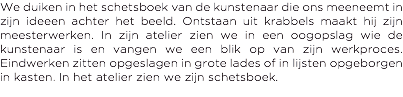
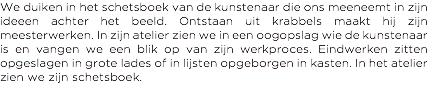
best for now

diff --git a/phone/index.html b/phone/index.html
@@ -18,33 +18,31 @@ if(typeof Muse == "undefined") window.Muse = {}; window.Muse.assets = {"required
   <title>Het schetsboek</title>
   <!-- CSS -->
   <link rel="stylesheet" type="text/css" href="../css/site_global.css?crc=443350757"/>
-  <link rel="stylesheet" type="text/css" href="css/index.css?crc=131115964" id="pagesheet"/>
+  <link rel="stylesheet" type="text/css" href="css/index.css?crc=4152663298" id="pagesheet"/>
   <!-- IE-only CSS -->
   <!--[if lt IE 9]>
-  <link rel="stylesheet" type="text/css" href="css/nomq_index.css?crc=516133162" id="nomq_pagesheet"/>
+  <link rel="stylesheet" type="text/css" href="css/nomq_index.css?crc=402654324" id="nomq_pagesheet"/>
   <![endif]-->
    </head>
  <body>
 
-  <div class="breakpoint active" id="bp_infinity" data-min-width="431"><!-- responsive breakpoint node -->
+  <div class="breakpoint active" id="bp_infinity" data-min-width="456"><!-- responsive breakpoint node -->
    <div class="clearfix" id="page"><!-- column -->
     <div class="position_content" id="page_position_content">
      <div class="clearfix colelem" id="pu4742"><!-- group -->
       <div class="clip_frame grpelem" id="u4742"><!-- image -->
-       <img class="block temp_no_img_src" id="u4742_img" data-orig-src="../images/schetsboek%20website428x234.png?crc=4009220246" alt="" width="428" height="233" src="../images/blank.gif?crc=4208392903"/>
+       <img class="block temp_no_img_src" id="u4742_img" data-orig-src="../images/schetsboek%20website453x247.png?crc=4059943281" alt="" width="452" height="247" src="../images/blank.gif?crc=4208392903"/>
       </div>
-      <img class="grpelem temp_no_img_src" id="u4749-4" alt="We duiken in het schetsboek van de kunstenaar die ons meeneemt in zijn ideeen achter het beeld. Ontstaan uit krabbels maakt hij zijn meesterwerken. In zijn atelier zien we in een oogopslag wie de kunstenaar is en vangen we een blik op van zijn werkproces. Eindwerken zitten opgeslagen in grote lades of in lijsten opgeborgen in kasten. In het atelier zien we zijn schetsboek." width="427" height="97" data-orig-src="../images/u4749-4.png?crc=4018633053" src="../images/blank.gif?crc=4208392903"/><!-- rasterized frame -->
+      <img class="grpelem temp_no_img_src" id="u4749-4" alt="We duiken in het schetsboek van de kunstenaar die ons meeneemt in zijn ideeen achter het beeld. Ontstaan uit krabbels maakt hij zijn meesterwerken. In zijn atelier zien we in een oogopslag wie de kunstenaar is en vangen we een blik op van zijn werkproces. Eindwerken zitten opgeslagen in grote lades of in lijsten opgeborgen in kasten. In het atelier zien we zijn schetsboek." width="452" height="97" data-orig-src="../images/u4749-4.png?crc=3976532881" src="../images/blank.gif?crc=4208392903"/><!-- rasterized frame -->
      </div>
-     <div class="clearfix colelem" id="pu4750"><!-- group -->
-      <a class="nonblock nontext clip_frame grpelem" id="u4750" href="geerten-ten-bosch.html"><!-- image --><img class="block temp_no_img_src" id="u4750_img" data-orig-src="../images/portret-crop-u4750.jpg?crc=271538203" alt="" width="188" height="192" src="../images/blank.gif?crc=4208392903"/></a>
+     <div class="clearfix colelem" id="pu4744"><!-- group -->
       <div class="grpelem shared_content" id="u4744" data-content-guid="u4744_content"><!-- simple frame --></div>
-     </div>
-     <div class="clearfix colelem shared_content" id="pu4745" data-content-guid="pu4745_content"><!-- group -->
       <div class="grpelem shared_content" id="u4745" data-content-guid="u4745_content"><!-- simple frame --></div>
       <a class="nonblock nontext clearfix grpelem shared_content" id="u4746-4" href="../geerten-ten-bosch.html?devicelock=desktop" data-content-guid="u4746-4_content"><!-- content --><p>Geerten Ten Bosch</p></a>
       <div class="clearfix grpelem shared_content" id="u4748-4" data-content-guid="u4748-4_content"><!-- content -->
        <p>Jesse Strikwerda</p>
       </div>
+      <a class="nonblock nontext clip_frame grpelem" id="u4750" href="geerten-ten-bosch.html"><!-- image --><img class="block temp_no_img_src" id="u4750_img" data-orig-src="../images/portret-crop-u4750.jpg?crc=243338511" alt="" width="199" height="203" src="../images/blank.gif?crc=4208392903"/></a>
      </div>
      <div class="clearfix colelem shared_content" id="u4747-4" data-content-guid="u4747-4_content"><!-- content -->
       <p>Harriët van Reek</p>
@@ -52,39 +50,41 @@ if(typeof Muse == "undefined") window.Muse = {}; window.Muse.assets = {"required
     </div>
    </div>
   </div>
-  <div class="breakpoint" id="bp_430" data-min-width="406" data-max-width="430"><!-- responsive breakpoint node -->
+  <div class="breakpoint" id="bp_455" data-min-width="431" data-max-width="455"><!-- responsive breakpoint node -->
    <div class="clearfix temp_no_id" data-orig-id="page"><!-- column -->
     <div class="position_content temp_no_id" data-orig-id="page_position_content">
      <div class="clearfix colelem temp_no_id" data-orig-id="pu4742"><!-- group -->
       <div class="clip_frame grpelem temp_no_id" data-orig-id="u4742"><!-- image -->
-       <img class="block temp_no_id temp_no_img_src" data-orig-src="../images/schetsboek%20website403x220.png?crc=4293956016" alt="" width="403" height="220" data-orig-id="u4742_img" src="../images/blank.gif?crc=4208392903"/>
+       <img class="block temp_no_id temp_no_img_src" data-orig-src="../images/schetsboek%20website428x234.png?crc=4009220246" alt="" width="428" height="233" data-orig-id="u4742_img" src="../images/blank.gif?crc=4208392903"/>
       </div>
-      <img class="grpelem temp_no_id temp_no_img_src" alt="We duiken in het schetsboek van de kunstenaar die ons meeneemt in zijn ideeen achter het beeld. Ontstaan uit krabbels maakt hij zijn meesterwerken. In zijn atelier zien we in een oogopslag wie de kunstenaar is en vangen we een blik op van zijn werkproces. Eindwerken zitten opgeslagen in grote lades of in lijsten opgeborgen in kasten. In het atelier zien we zijn schetsboek." width="403" height="97" data-orig-src="../images/u4749-42.png?crc=4185130708" data-orig-id="u4749-4" src="../images/blank.gif?crc=4208392903"/><!-- rasterized frame -->
+      <img class="grpelem temp_no_id temp_no_img_src" alt="We duiken in het schetsboek van de kunstenaar die ons meeneemt in zijn ideeen achter het beeld. Ontstaan uit krabbels maakt hij zijn meesterwerken. In zijn atelier zien we in een oogopslag wie de kunstenaar is en vangen we een blik op van zijn werkproces. Eindwerken zitten opgeslagen in grote lades of in lijsten opgeborgen in kasten. In het atelier zien we zijn schetsboek." width="428" height="97" data-orig-src="../images/u4749-42.png?crc=4018633053" data-orig-id="u4749-4" src="../images/blank.gif?crc=4208392903"/><!-- rasterized frame -->
      </div>
-     <div class="clearfix colelem temp_no_id" data-orig-id="pu4750"><!-- group -->
-      <a class="nonblock nontext clip_frame grpelem temp_no_id" href="geerten-ten-bosch.html" data-orig-id="u4750"><!-- image --><img class="block temp_no_id temp_no_img_src" data-orig-src="../images/portret-crop-u47502.jpg?crc=5701676" alt="" width="177" height="181" data-orig-id="u4750_img" src="../images/blank.gif?crc=4208392903"/></a>
+     <div class="clearfix colelem temp_no_id" data-orig-id="pu4744"><!-- group -->
       <span class="grpelem placeholder" data-placeholder-for="u4744_content"><!-- placeholder node --></span>
+      <span class="grpelem placeholder" data-placeholder-for="u4745_content"><!-- placeholder node --></span>
+      <span class="nonblock nontext clearfix grpelem placeholder" data-placeholder-for="u4746-4_content"><!-- placeholder node --></span>
+      <span class="clearfix grpelem placeholder" data-placeholder-for="u4748-4_content"><!-- placeholder node --></span>
+      <a class="nonblock nontext clip_frame grpelem temp_no_id" href="geerten-ten-bosch.html" data-orig-id="u4750"><!-- image --><img class="block temp_no_id temp_no_img_src" data-orig-src="../images/portret-crop-u47502.jpg?crc=271538203" alt="" width="188" height="192" data-orig-id="u4750_img" src="../images/blank.gif?crc=4208392903"/></a>
      </div>
-     <span class="clearfix colelem placeholder" data-placeholder-for="pu4745_content"><!-- placeholder node --></span>
      <span class="clearfix colelem placeholder" data-placeholder-for="u4747-4_content"><!-- placeholder node --></span>
     </div>
    </div>
   </div>
-  <div class="breakpoint" id="bp_405" data-min-width="381" data-max-width="405"><!-- responsive breakpoint node -->
+  <div class="breakpoint" id="bp_430" data-min-width="381" data-max-width="430"><!-- responsive breakpoint node -->
    <div class="clearfix temp_no_id" data-orig-id="page"><!-- column -->
     <div class="position_content temp_no_id" data-orig-id="page_position_content">
      <div class="clearfix colelem temp_no_id" data-orig-id="pu4742"><!-- group -->
       <div class="clip_frame grpelem temp_no_id shared_content" data-orig-id="u4742" data-content-guid="u4742_content"><!-- image -->
        <img class="block temp_no_id temp_no_img_src" data-orig-src="../images/schetsboek%20website378x206.png?crc=518019334" alt="" width="378" height="206" data-orig-id="u4742_img" src="../images/blank.gif?crc=4208392903"/>
       </div>
-      <img class="grpelem temp_no_id temp_no_img_src" alt="We duiken in het schetsboek van de kunstenaar die ons meeneemt in zijn ideeen achter het beeld. Ontstaan uit krabbels maakt hij zijn meesterwerken. In zijn atelier zien we in een oogopslag wie de kunstenaar is en vangen we een blik op van zijn werkproces. Eindwerken zitten opgeslagen in grote lades of in lijsten opgeborgen in kasten. In het atelier zien we zijn schetsboek." width="378" height="97" data-orig-src="../images/u4749-43.png?crc=477453956" data-orig-id="u4749-4" src="../images/blank.gif?crc=4208392903"/><!-- rasterized frame -->
+      <img class="grpelem temp_no_id temp_no_img_src" alt="We duiken in het schetsboek van de kunstenaar die ons meeneemt in zijn ideeen achter het beeld. Ontstaan uit krabbels maakt hij zijn meesterwerken. In zijn atelier zien we in een oogopslag wie de kunstenaar is en vangen we een blik op van zijn werkproces. Eindwerken zitten opgeslagen in grote lades of in lijsten opgeborgen in kasten. In het atelier zien we zijn schetsboek." width="380" height="97" data-orig-src="../images/u4749-43.png?crc=4076492941" data-orig-id="u4749-4" src="../images/blank.gif?crc=4208392903"/><!-- rasterized frame -->
      </div>
-     <div class="clearfix colelem" id="pu4744"><!-- group -->
+     <div class="clearfix colelem temp_no_id" data-orig-id="pu4744"><!-- group -->
       <span class="grpelem placeholder" data-placeholder-for="u4744_content"><!-- placeholder node --></span>
       <span class="nonblock nontext clearfix grpelem placeholder" data-placeholder-for="u4746-4_content"><!-- placeholder node --></span>
-      <a class="nonblock nontext clip_frame grpelem temp_no_id" href="geerten-ten-bosch.html" data-orig-id="u4750"><!-- image --><img class="block temp_no_id temp_no_img_src" data-orig-src="../images/portret-crop-u47503.jpg?crc=4150690599" alt="" width="126" height="129" data-orig-id="u4750_img" src="../images/blank.gif?crc=4208392903"/></a>
+      <a class="nonblock nontext clip_frame grpelem temp_no_id" href="geerten-ten-bosch.html" data-orig-id="u4750"><!-- image --><img class="block temp_no_id temp_no_img_src" data-orig-src="../images/portret-crop-u47503.jpg?crc=3889474983" alt="" width="167" height="170" data-orig-id="u4750_img" src="../images/blank.gif?crc=4208392903"/></a>
      </div>
-     <div class="clearfix colelem temp_no_id" data-orig-id="pu4745"><!-- group -->
+     <div class="clearfix colelem" id="pu4745"><!-- group -->
       <span class="grpelem placeholder" data-placeholder-for="u4745_content"><!-- placeholder node --></span>
       <span class="clearfix grpelem placeholder" data-placeholder-for="u4748-4_content"><!-- placeholder node --></span>
      </div>
@@ -101,12 +101,10 @@ if(typeof Muse == "undefined") window.Muse = {}; window.Muse.assets = {"required
      </div>
      <div class="clearfix colelem temp_no_id" data-orig-id="pu4744"><!-- group -->
       <span class="grpelem placeholder" data-placeholder-for="u4744_content"><!-- placeholder node --></span>
-      <span class="nonblock nontext clearfix grpelem placeholder" data-placeholder-for="u4746-4_content"><!-- placeholder node --></span>
-      <a class="nonblock nontext clip_frame grpelem temp_no_id" href="geerten-ten-bosch.html" data-orig-id="u4750"><!-- image --><img class="block temp_no_id temp_no_img_src" data-orig-src="../images/portret-crop-u47504.jpg?crc=4150690599" alt="" width="126" height="129" data-orig-id="u4750_img" src="../images/blank.gif?crc=4208392903"/></a>
-     </div>
-     <div class="clearfix colelem temp_no_id" data-orig-id="pu4745"><!-- group -->
       <span class="grpelem placeholder" data-placeholder-for="u4745_content"><!-- placeholder node --></span>
+      <span class="nonblock nontext clearfix grpelem placeholder" data-placeholder-for="u4746-4_content"><!-- placeholder node --></span>
       <span class="clearfix grpelem placeholder" data-placeholder-for="u4748-4_content"><!-- placeholder node --></span>
+      <a class="nonblock nontext clip_frame grpelem temp_no_id" href="geerten-ten-bosch.html" data-orig-id="u4750"><!-- image --><img class="block temp_no_id temp_no_img_src" data-orig-src="../images/portret-crop-u47504.jpg?crc=4150690599" alt="" width="126" height="129" data-orig-id="u4750_img" src="../images/blank.gif?crc=4208392903"/></a>
      </div>
      <span class="clearfix colelem placeholder" data-placeholder-for="u4747-4_content"><!-- placeholder node --></span>
     </div>

diff --git a/phone/css/index.css b/phone/css/index.css
@@ -1,1 +1,1 @@
-.version.index{color:#000007;background-color:#D0ABBC;}#page{border-color:#000000;min-height:570px;background-color:transparent;background-image:none;border-width:0px;z-index:1;}#page_position_content{margin-bottom:-388px;width:0.01px;padding-top:32px;}#pu4742{z-index:2;width:0.01px;}#u4742{background-color:transparent;z-index:2;position:relative;margin-right:-10000px;}#u4749-4{margin-right:-10000px;position:relative;vertical-align:top;display:block;z-index:18;margin-top:188px;}#u4744{background-color:#2B2229;margin-right:-10000px;position:relative;z-index:4;}#u4746-4{line-height:14px;background-color:transparent;min-height:30px;position:relative;text-align:center;font-size:12px;z-index:6;margin-right:-10000px;}#u4750{background-color:transparent;margin-right:-10000px;position:relative;z-index:22;}#pu4745{width:0.01px;z-index:5;}#u4745{background-color:#2B2229;margin-right:-10000px;position:relative;z-index:5;}#u4748-4{line-height:14px;background-color:transparent;min-height:30px;position:relative;text-align:center;font-size:12px;z-index:14;margin-right:-10000px;}#u4747-4{background-color:transparent;min-height:30px;position:relative;text-align:center;z-index:10;}.html{background-color:#FFFFFF;}body{position:relative;}@media (min-width: 431px), print{#muse_css_mq{background-color:#FFFFFF;}#bp_infinity.active{display:block;}#page{width:430px;margin-left:auto;margin-right:auto;}#u4742{width:428px;}#pu4750{z-index:22;width:0.01px;margin-left:7px;margin-top:25px;}#u4750{width:188px;}#u4744{width:200px;height:180px;left:214px;}#pu4745{margin-left:-105px;margin-top:-6px;}#u4745{width:188px;height:160px;margin-top:15px;left:112px;}#u4746-4{width:368px;}#u4748-4{width:368px;left:237px;}#u4747-4{width:368px;left:-222px;margin-top:429px;}body{min-width:430px;}}@media (min-width: 406px) and (max-width: 430px){#muse_css_mq{background-color:#0001ae;}#bp_430.active{display:block;}#page{width:405px;margin-left:auto;margin-right:auto;}#u4742{width:403px;}#pu4750{z-index:22;width:0.01px;margin-top:25px;}#u4750{width:177px;}#u4744{width:188px;height:180px;left:214px;}#pu4745{margin-left:-107px;margin-top:5px;}#u4745{width:177px;height:160px;margin-top:15px;left:107px;}#u4746-4{width:346px;}#u4748-4{width:346px;left:237px;}#u4747-4{width:346px;left:-224px;margin-top:429px;}body{overflow-x:hidden;min-width:405px;}}@media (min-width: 381px) and (max-width: 405px){#muse_css_mq{background-color:#000195;}#bp_405.active{display:block;}#page{width:380px;margin-left:auto;margin-right:auto;}#u4742{width:378px;}#pu4744{z-index:4;width:0.01px;margin-left:-94px;margin-top:25px;}#u4744{width:173px;height:168px;left:281px;}#u4746-4{width:325px;margin-top:135px;}#u4750{width:126px;left:122px;}#pu4745{margin-left:28px;margin-top:11px;}#u4745{width:126px;height:113px;margin-top:8px;}#u4748-4{width:325px;left:84px;}#u4747-4{width:325px;left:-226px;margin-top:428px;}body{overflow-x:hidden;min-width:380px;}}@media (max-width: 380px){#muse_css_mq{background-color:#00017c;}#bp_380.active{display:block;}#page{width:380px;}#u4742{width:378px;}#u4749-4{left:28px;}#pu4744{z-index:4;width:0.01px;margin-left:-94px;margin-top:10px;}#u4744{width:173px;height:168px;left:281px;}#u4746-4{width:325px;margin-top:135px;}#u4750{width:126px;left:122px;}#pu4745{margin-left:28px;margin-top:11px;}#u4745{width:126px;height:113px;margin-top:8px;}#u4748-4{width:325px;left:84px;}#u4747-4{width:325px;left:-226px;margin-top:428px;}body{overflow-x:hidden;min-width:380px;}}
+.version.index{color:#0000F7;background-color:#849D02;}#page{border-color:#000000;z-index:1;background-image:none;background-color:transparent;border-width:0px;}#page_position_content{padding-top:32px;width:0.01px;}#pu4742{z-index:2;width:0.01px;}#u4742{background-color:transparent;z-index:2;position:relative;margin-right:-10000px;}#u4749-4{margin-right:-10000px;position:relative;vertical-align:top;display:block;z-index:18;margin-top:188px;}#pu4744{width:0.01px;z-index:4;}#u4744{background-color:#2B2229;margin-right:-10000px;position:relative;z-index:4;}#u4745{background-color:#2B2229;margin-right:-10000px;position:relative;z-index:5;}#u4746-4{line-height:14px;min-height:30px;z-index:6;text-align:center;background-color:transparent;font-size:12px;position:relative;margin-right:-10000px;}#u4748-4{line-height:14px;min-height:30px;z-index:14;text-align:center;background-color:transparent;font-size:12px;position:relative;margin-right:-10000px;}#u4750{background-color:transparent;margin-right:-10000px;position:relative;z-index:22;}#u4747-4{background-color:transparent;min-height:30px;position:relative;text-align:center;z-index:10;}.html{background-color:#FFFFFF;}body{position:relative;}@media (min-width: 456px), print{#muse_css_mq{background-color:#FFFFFF;}#bp_infinity.active{display:block;}#page{width:455px;min-height:570px;margin-left:auto;margin-right:auto;}#page_position_content{margin-bottom:-388px;}#u4742{width:452px;}#pu4744{margin-left:-95px;margin-top:25px;}#u4744{width:220px;height:257px;left:331px;}#u4745{width:199px;height:160px;margin-top:240px;left:95px;}#u4746-4{width:389px;margin-top:211px;}#u4748-4{width:389px;margin-top:266px;left:229px;}#u4750{width:199px;left:95px;}#u4747-4{width:389px;left:-220px;margin-top:429px;}body{min-width:455px;}}@media (min-width: 431px) and (max-width: 455px){#muse_css_mq{background-color:#0001c7;}#bp_455.active{display:block;}#page{width:430px;min-height:570px;margin-left:auto;margin-right:auto;}#page_position_content{margin-bottom:-387px;}#u4742{width:428px;}#pu4744{margin-left:-99px;margin-top:25px;}#u4744{width:200px;height:240px;left:320px;}#u4745{width:188px;height:160px;margin-top:217px;left:106px;}#u4746-4{width:368px;margin-top:197px;}#u4748-4{width:368px;margin-top:232px;left:231px;}#u4750{width:188px;left:106px;}#u4747-4{width:368px;left:-222px;margin-top:429px;}body{overflow-x:hidden;min-width:430px;}}@media (min-width: 381px) and (max-width: 430px){#muse_css_mq{background-color:#0001ae;}#bp_430.active{display:block;}#page{width:380px;min-height:569.9062436209472px;padding-bottom:0px;margin-left:auto;margin-right:auto;}#page_position_content{margin-bottom:-388px;}#u4742{width:378px;}#pu4744{margin-left:-90px;margin-top:25px;}#u4744{width:191px;height:220px;left:279px;}#u4746-4{width:325px;margin-top:180px;}#u4750{width:166px;left:90px;}#pu4745{z-index:5;width:0.01px;}#u4745{width:166px;height:160px;}#u4748-4{width:325px;margin-top:13px;left:129px;}#u4747-4{width:325px;left:-226px;margin-top:429px;}body{overflow-x:hidden;min-width:380px;}}@media (max-width: 380px){#muse_css_mq{background-color:#00017c;}#bp_380.active{display:block;}#page{width:380px;min-height:570px;}#page_position_content{margin-bottom:-387px;}#u4742{width:378px;}#u4749-4{left:28px;}#pu4744{margin-left:-77px;margin-top:10px;}#u4744{width:156px;height:172px;left:260px;}#u4745{width:126px;height:113px;margin-top:152px;left:105px;}#u4746-4{width:325px;margin-top:133px;}#u4748-4{width:325px;margin-top:182px;left:181px;}#u4750{width:126px;left:105px;}#u4747-4{width:325px;left:-226px;margin-top:430px;}body{overflow-x:hidden;min-width:380px;}}

diff --git a/phone/css/nomq_index.css b/phone/css/nomq_index.css
@@ -1,1 +1,1 @@
-#muse_css_mq{background-color:#FFFFFF;}#bp_infinity.active{display:block;}#page{width:430px;margin-left:auto;margin-right:auto;}#u4742{width:428px;}#pu4750{z-index:22;width:0.01px;margin-left:7px;margin-top:25px;}#u4750{width:188px;}#u4744{width:200px;height:180px;left:214px;}#pu4745{margin-left:-105px;margin-top:-6px;}#u4745{width:188px;height:160px;margin-top:15px;left:112px;}#u4746-4{width:368px;}#u4748-4{width:368px;left:237px;}#u4747-4{width:368px;left:-222px;margin-top:429px;}body{min-width:430px;}
+#muse_css_mq{background-color:#FFFFFF;}#bp_infinity.active{display:block;}#page{width:455px;min-height:570px;margin-left:auto;margin-right:auto;}#page_position_content{margin-bottom:-388px;}#u4742{width:452px;}#pu4744{margin-left:-95px;margin-top:25px;}#u4744{width:220px;height:257px;left:331px;}#u4745{width:199px;height:160px;margin-top:240px;left:95px;}#u4746-4{width:389px;margin-top:211px;}#u4748-4{width:389px;margin-top:266px;left:229px;}#u4750{width:199px;left:95px;}#u4747-4{width:389px;left:-220px;margin-top:429px;}body{min-width:455px;}
